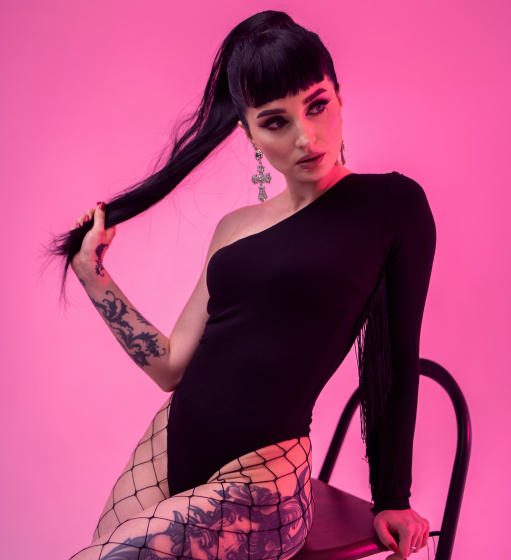
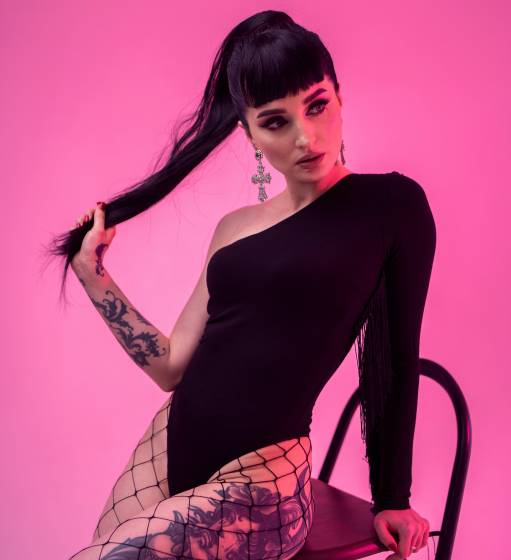
lazy load images pasted

diff --git a/src/entities/artist/artist.tsx b/src/entities/artist/artist.tsx
@@ -4,6 +4,8 @@ import { IMember } from '../../shared/store'
 import { Header_H3 } from '../../shared/ui/text/text-h3'
 import { TextRegular } from '../../shared/ui/text/text-regular'
 import { ButtonArrow } from '../../shared/ui/button'
+import { LazyLoadImage } from 'react-lazy-load-image-component';
+import 'react-lazy-load-image-component/src/effects/blur.css';
 
 type ArtistProps = {
     member: IMember
@@ -11,23 +13,29 @@ type ArtistProps = {
 export const Artist: FC<ArtistProps> = ({ member }) => {
     return (
         <section className={c.block}>
-            <div className={member.potfolio? c.item_responsive : c.item_not_responsive}>
+            <div className={member.potfolio ? c.item_responsive : c.item_not_responsive}>
                 <div className={c.content}>
-                    <img src={member.src} alt={member.name} className={member.potfolio? c.block_img_transform : c.block_img} />
+                    <LazyLoadImage
+                        alt={member.name}
+                        effect="blur"
+                        src={member.src}
+                        className={member.potfolio ? c.block_img_transform : c.block_img}
+                        placeholderSrc={member.srcSM}
+                    />
                 </div>
             </div>
             <div className={c.flex}>
-            <div className={c.flex_left}>
-                <Header_H3>{member.name}</Header_H3>
-                <TextRegular>{member.job}</TextRegular>
-            </div>
-            <div className={c.flex_right}>
-                {member.potfolio ? <p className={c.flex_header}>Style</p> : ''}
-                <TextRegular>{member.style.map(item => {
-                    return <span className={c.flex_right_text} key={item.id}>{item.text}<br /></span>
-                })}</TextRegular>
-                {member.potfolio ? <ButtonArrow href={`/artists/${member.name}`}>See More</ButtonArrow> : ''}
-            </div>
+                <div className={c.flex_left}>
+                    <Header_H3>{member.name}</Header_H3>
+                    <TextRegular>{member.job}</TextRegular>
+                </div>
+                <div className={c.flex_right}>
+                    {member.potfolio ? <p className={c.flex_header}>Style</p> : ''}
+                    <TextRegular>{member.style.map(item => {
+                        return <span className={c.flex_right_text} key={item.id}>{item.text}<br /></span>
+                    })}</TextRegular>
+                    {member.potfolio ? <ButtonArrow href={`/artists/${member.name}`}>See More</ButtonArrow> : ''}
+                </div>
             </div>
         </section>
     )

diff --git a/src/pages/main/3_about/about.tsx b/src/pages/main/3_about/about.tsx
@@ -3,9 +3,11 @@ import { Container } from "../../../shared/ui/container/container"
 import { Header_H3 } from "../../../shared/ui/text/text-h3"
 import { TextRegular } from "../../../shared/ui/text/text-regular"
 import opened from "../../../../public/main/opened.svg"
+import opened_lazy from "../../../../public/main/opened-svg_lazy.svg"
 import part3_img from "../../../../public/main/part3_img.jpg"
 import part3_img_lazy from "../../../../public/main/part3_img_768_lazy.jpg"
 import { LazyLoadImage } from "react-lazy-load-image-component";
+import 'react-lazy-load-image-component/src/effects/blur.css';
 
 export const About = () => {
   return (
@@ -20,10 +22,24 @@ export const About = () => {
         </div>
       </Container>
       <div className={c.part3_img}>
-      <LazyLoadImage src={part3_img} placeholderSrc={part3_img_lazy} alt="destin tattoo company" />
+      <LazyLoadImage
+                        alt="destin tattoo company" 
+                        effect="blur"
+                        src={part3_img}
+                        visibleByDefault={part3_img === "../../../../public/main/part3_img_768_lazy.jpg"}
+                        placeholderSrc={part3_img_lazy}
+                    />
       </div>
       <div className={c.part3_footer}>
-        <img src={opened} alt="opened 7 days" className={c.part3_footer_img} />
+      <LazyLoadImage
+                        alt="opened 7 days"
+                        effect="blur"
+                        src={opened}
+                        visibleByDefault={opened === "../../../../public/main/opened-svg_lazy.svg"}
+                        placeholderSrc={opened_lazy}
+                        className={c.part3_footer_img}
+                    />
+
       </div>
     </div>
   )

diff --git a/src/pages/contact/contact.tsx b/src/pages/contact/contact.tsx
@@ -1,7 +1,10 @@
 import c from './contact.module.css'
+import { LazyLoadImage } from "react-lazy-load-image-component";
+import 'react-lazy-load-image-component/src/effects/blur.css';
 import { Header_H2 } from "../../shared/ui/text/text-h2"
 import h2 from '../../../public/contact/h2_contacts.svg'
 import map from '../../../public/contact/Map.jpg'
+import map_lazy from '../../../public/contact/MapSM.jpg'
 import { PageBottom } from "../../entities/page-footer/page-footer"
 import { Container } from '../../shared/ui/container/container'
 import { useFooter } from '../../shared/store'
@@ -9,10 +12,10 @@ import { Link } from '../../shared/ui/link/link'
 import { TextRegular } from '../../shared/ui/text/text-regular'
 import { Header_H3 } from '../../shared/ui/text/text-h3'
 
-const appStyle = {
-  width: '100%',
-  overflow: 'scroll',
-};
+// const appStyle = {
+//   width: '100vw',
+//   overflow: 'scroll',
+// };
 
 const handleOnWheel = () => {
   console.log('onWheel: scrolling the list...');
@@ -22,8 +25,6 @@ const handleOnWheel = () => {
 export const Contact = () => {
   const links = useFooter(state => state.footerLinks)
   return (
-
-
     <section className={c.section}>
       <Container>
         <Header_H2 src={h2} alt="artists" />
@@ -77,8 +78,15 @@ export const Contact = () => {
           </div>
         </div>
       </Container>
-      <div></div>
-      <img src={map} alt="map" style={appStyle} onWheel={handleOnWheel} />
+      <LazyLoadImage
+        alt="map"
+        effect="blur"
+        src={map}
+        visibleByDefault={map === '../../../public/contact/MapSM.jpg'}
+        placeholderSrc={map_lazy}
+        className={c.map}
+        onWheel={handleOnWheel}
+      />
       <PageBottom />
     </section>
   )

diff --git a/src/pages/member/member.tsx b/src/pages/member/member.tsx
@@ -1,5 +1,7 @@
 import { useParams } from "react-router";
 import c from "./member.module.css"
+import { LazyLoadImage } from 'react-lazy-load-image-component';
+import 'react-lazy-load-image-component/src/effects/blur.css';
 import { TextRegular } from '../../shared/ui/text/text-regular';
 import { useMembers } from '../../shared/store';
 import { Header_H2 } from "../../shared/ui/text/text-h2"
@@ -34,11 +36,18 @@ export const Member = () => {
                                             <TextRegular>
                                                 <Link href={member.instagram}>Instagram</Link>
                                                 <Link href={member.instagram}>Facebook</Link>
-                                           </TextRegular>
+                                            </TextRegular>
                                         </div>
                                     </div>
                                     <div className={c.member_img}>
-                                        <img src={member.src} className={c.member_img__image} />
+                                        <LazyLoadImage
+                                            alt={member.name}
+                                            effect="blur"
+                                            src={member.src}
+                                            // visibleByDefault={member.src === member.src}
+                                            placeholderSrc={member.srcSM}
+                                            className={c.member_img__image}
+                                        />
                                     </div>
                                 </div>
                             </Container>

diff --git a/src/entities/feedback/feedback.tsx b/src/entities/feedback/feedback.tsx
@@ -1,4 +1,6 @@
 import { FC } from "react"
+import { LazyLoadImage } from 'react-lazy-load-image-component';
+import 'react-lazy-load-image-component/src/effects/blur.css';
 import { IFeedBack } from "../../shared/store"
 import c from "./feedback.module.css"
 import { TextRegular } from "../../shared/ui/text/text-regular"
@@ -11,8 +13,23 @@ type FeedbackProps = {
 export const Feedback: FC<FeedbackProps> = ({ item }) => {
   return (
     <div className={c.feedback}>
-      <img className={c.feedback_img} src={item.src} alt={item.alt} />
-      <img className={c.feedback_img__sm} src={item.srcSM} alt={item.alt} />
+      <LazyLoadImage
+        alt={item.alt}
+        effect="blur"
+        src={item.src}
+        visibleByDefault={item.src === item.src_lazy}
+        placeholderSrc={item.srcSM_lazy}
+        className={c.feedback_img}
+      />
+
+      <LazyLoadImage
+        alt={item.alt}
+        effect="blur"
+        src={item.srcSM}
+        visibleByDefault={item.srcSM === item.srcSM_lazy}
+        placeholderSrc={item.srcSM_lazy}
+        className={c.feedback_img__sm}
+      />
       <div className={c.feedback_text}><TextRegular color='grey' >{item.text}</TextRegular></div>
       <div className={c.feedback_footer}>
         <div className={c.feedback_name}><TextRegular>{item.name}</TextRegular></div>

diff --git a/src/pages/faq/faq.tsx b/src/pages/faq/faq.tsx
@@ -1,5 +1,6 @@
 import c from './faq.module.css'
-import { LazyLoadImage } from "react-lazy-load-image-component";
+import { LazyLoadImage } from 'react-lazy-load-image-component';
+import 'react-lazy-load-image-component/src/effects/blur.css';
 import { Header_H2 } from "../../shared/ui/text/text-h2"
 import h2 from '../../../public/faq/h2_faq.svg'
 import img from '../../../public/faq/img.jpg'
@@ -11,9 +12,7 @@ import { TextRegular } from '../../shared/ui/text/text-regular'
 import { Container } from '../../shared/ui/container/container'
 import { useFaq } from '../../shared/store'
 import { DropDownItem } from '../../entities/drop-down-item'
-
 export const Faq = () => {
-
   const questions = useFaq(state => state.questions)
   return (
     <section className={c.section}>
@@ -32,12 +31,18 @@ export const Faq = () => {
           })}
         </div>
       </Container>
-      <LazyLoadImage src={img} placeholderSrc={img_lazy} effect="blur" alt='frequently asked questions' className={c.img}/>
+      <LazyLoadImage
+        alt="tatto"
+        effect="blur"
+        src={img}
+        visibleByDefault={img === '../../../public/faq/img_lazy.jpg'}
+        placeholderSrc={img_lazy}
+        className={c.img}
+      />
       <PageBottom />
     </section>
   )
 }
-
 
 
 

diff --git a/src/pages/main/2_gallery/gallery.tsx b/src/pages/main/2_gallery/gallery.tsx
@@ -1,16 +1,27 @@
 import c from './gallery.module.css'
 import { IImgs, useMainPageGallery } from "../../../shared/store"
-import { LazyLoadImage } from "react-lazy-load-image-component";
+import { LazyLoadImage } from 'react-lazy-load-image-component';
+import 'react-lazy-load-image-component/src/effects/blur.css';
 
 export const Gallery = () => {
     const { imgs } = useMainPageGallery((state) => state)
+
     return (
         <div className={c.gallary}>
             {imgs.map((img: IImgs) => {
                 return (<div key={img.id} className={c.gallary_item}>
-                    <LazyLoadImage src={img.src} placeholderSrc={img.src_lazy} alt={img.alt} />
+                    <LazyLoadImage
+                        alt={img.alt}
+                        effect="blur"
+                        src={img.src}
+                        visibleByDefault={img.src === img.src}
+                        placeholderSrc={img.src_lazy}
+                    />
                 </div>)
             })}
         </div>
     )
 }
+
+
+

diff --git a/src/main.tsx b/src/main.tsx
@@ -3,13 +3,14 @@ import ReactDOM from 'react-dom/client'
 import App from './app/App';
 import { createBrowserRouter, RouterProvider } from "react-router-dom";
 import { Error } from './pages/error';
-import { Main } from './pages/main'
+// import { Main } from './pages/main'
 import { Artists } from './pages/artists'
 import { Gallery } from './pages/gallery'
 import { Faq } from './pages/faq';
 import { Appointment } from './pages/appointment'
 import { Contact } from './pages/contact'
 import { Member } from './pages/member';
+import { Main } from './pages/main';
 
 const router = createBrowserRouter([
   {

diff --git a/src/shared/store/store.ts b/src/shared/store/store.ts
@@ -2,7 +2,7 @@ import { create } from 'zustand';
 import { nanoid } from 'nanoid'
 import { MenuLinks, FooterLinks, FooterText, IImgs, IFeedBack, IMember, IQuestion } from './model';
 import main_img1 from "../../../public/main/img1.jpg"
-import main_img1_lazy from "../../../public/main/feedback_img1_lazy.jpg"
+import main_img1_lazy from "../../../public/main/img1_lazy.jpg"
 import main_img2 from "../../../public/main/img2.jpg"
 import main_img2_lazy from "../../../public/main/img2_lazy.jpg"
 import main_img3 from "../../../public/main/img3.jpg"

diff --git a/src/pages/main/3_about/about.module.css b/src/pages/main/3_about/about.module.css
@@ -16,21 +16,13 @@
 }
 
 .part3_img img {
-  width: 100%;
+  width: 100vw;
 }
 
 .part3_footer {
   display: flex;
   justify-content: center;
   margin-top: -40px;
-}
-
-.part3_footer_img {
-  background-color: none;
-  z-index: 40px;
-  width: 100%;
-  max-width: 263px;
-  background-image: url("../../../public/main/seven_days.svg");
 }
 
 @media (min-width: 768px) {

diff --git a/src/pages/main/2_gallery/gallery.module.css b/src/pages/main/2_gallery/gallery.module.css
@@ -52,9 +52,10 @@
 }
 
 @media (min-width: 1600px) {
+ 
     .gallary {
         margin-bottom: 245px;
-        grid-gap: 33px;
+        grid-gap: 30px;
     }
 
     .gallary_item:nth-child(2),
@@ -67,7 +68,6 @@
     .gallary_item:nth-child(3) {
         margin-top: 112px;
     }
-
     .gallary_item:nth-child(5) {
         margin-top: -112px;
     }

diff --git a/src/pages/main/main.tsx b/src/pages/main/main.tsx
@@ -5,8 +5,7 @@ import { About } from "./3_about"
 import { Tattoo } from "./4_tattoo"
 import { Piercing } from "./5_piercing"
 import { Feedbacks } from "./6_feedbacks"
-
-export const Main = () => {
+export const Main = () => { 
   return (
     <>
       <TopPart />
